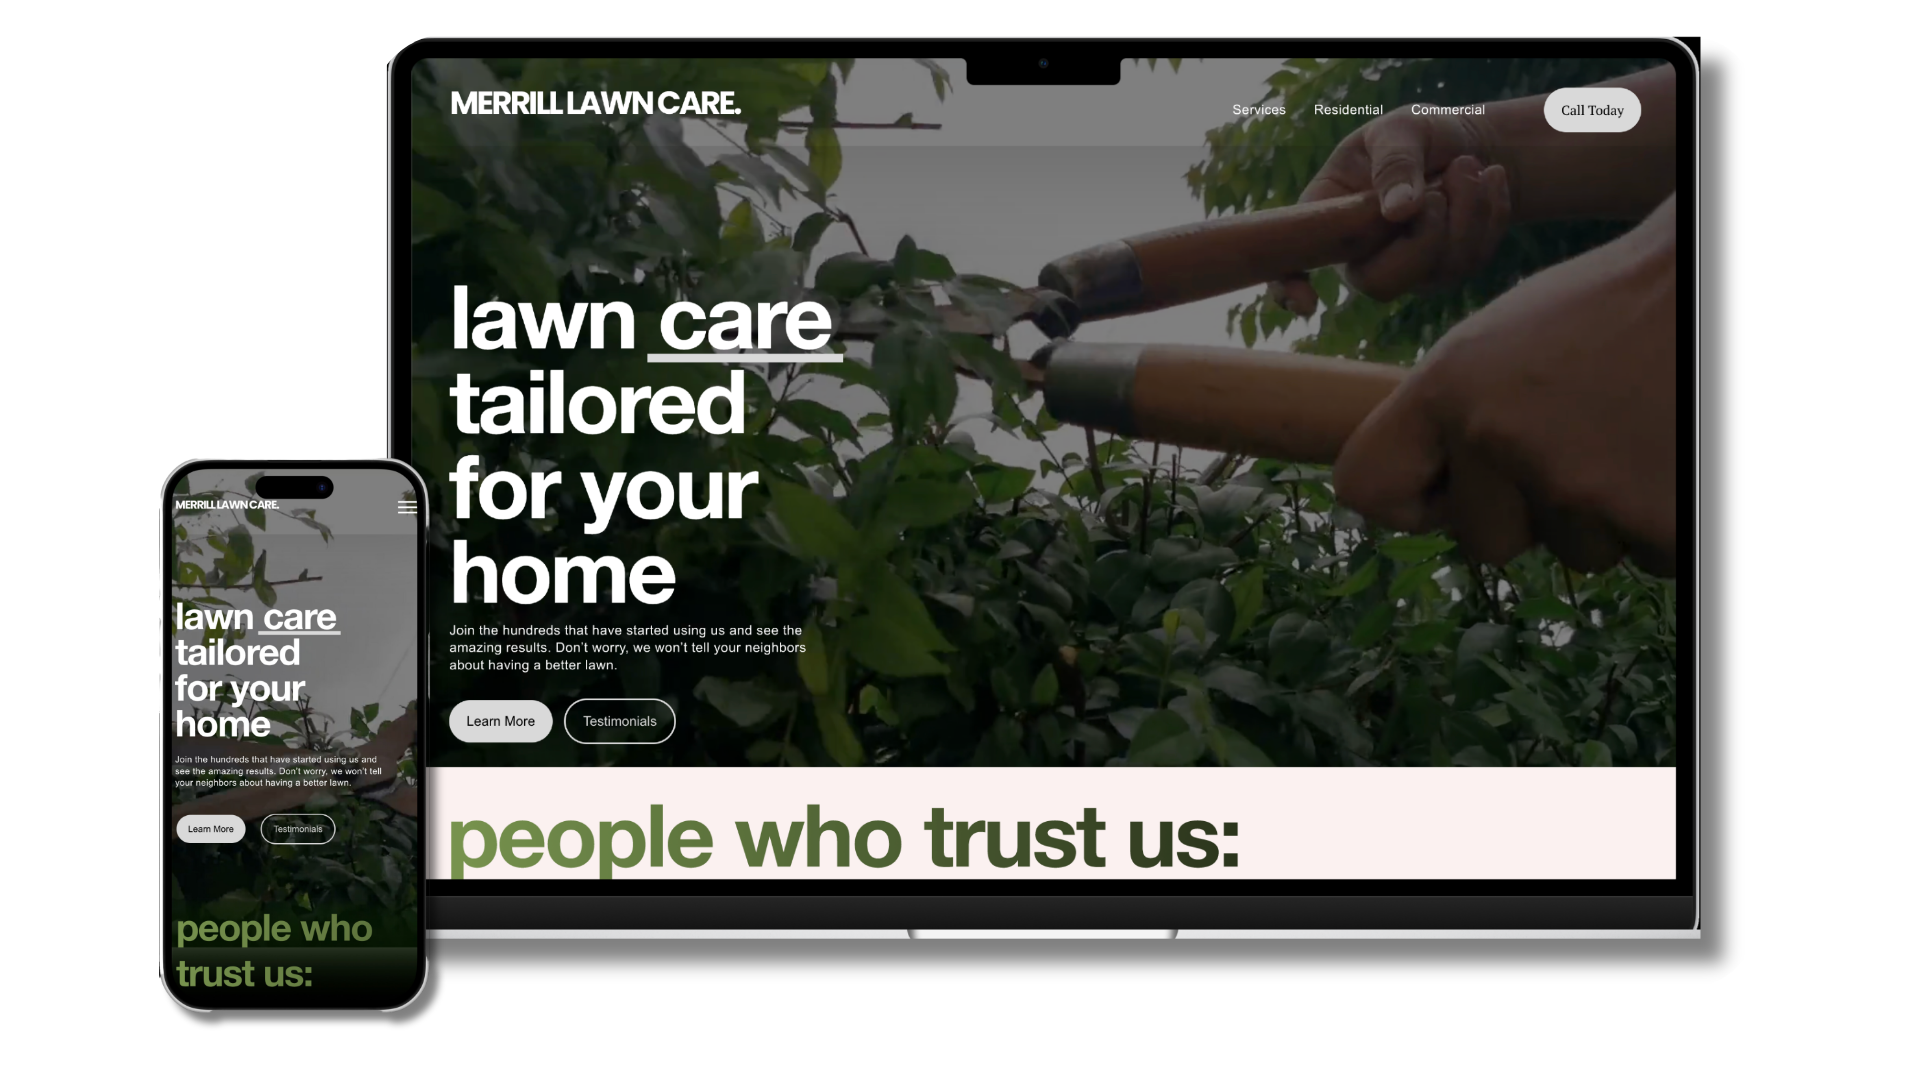
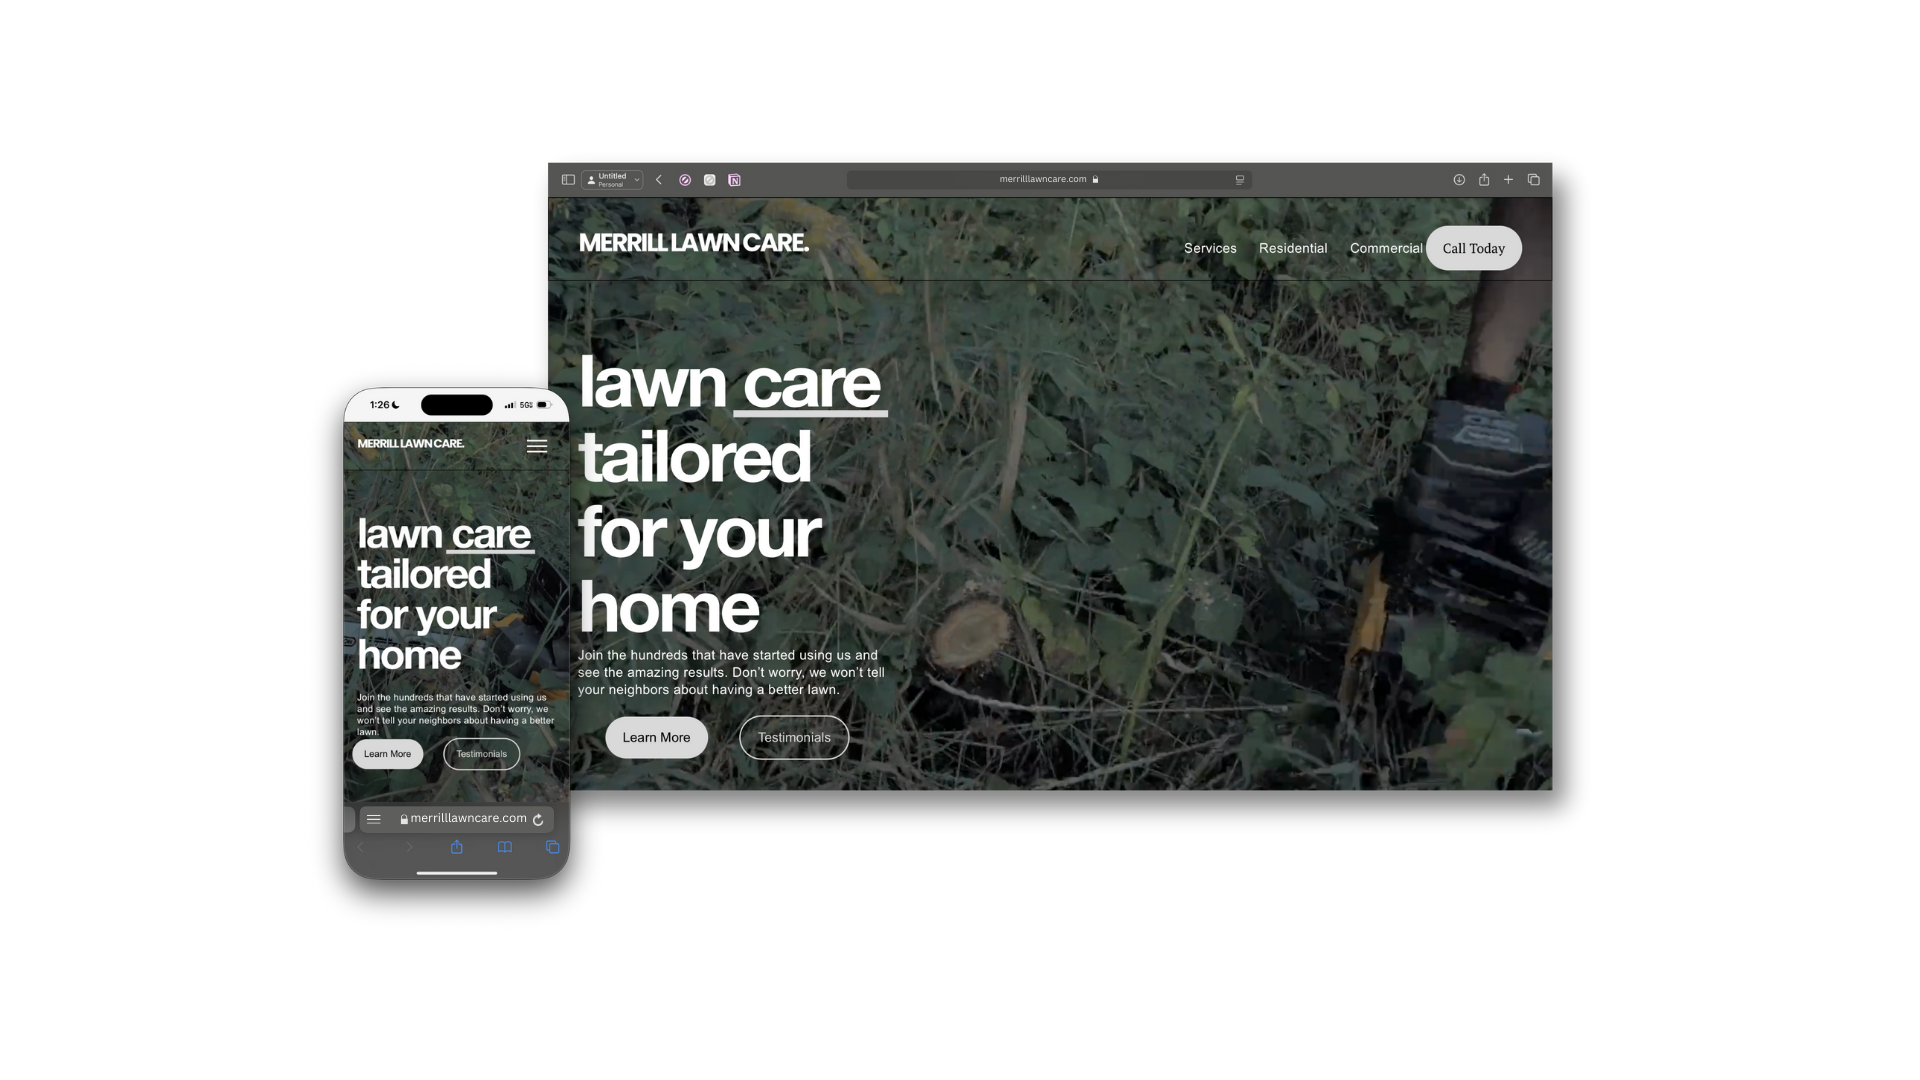
New hero image

diff --git a/src/app/(site)/privacy/page.tsx b/src/app/(site)/privacy/page.tsx
@@ -8,7 +8,7 @@ const PrivacyPage: React.FC = () => {
   return (
       <main className="container mx-auto px-4 py-16">
         <motion.h1 
-          className="text-5xl font-bold mb-8 text-center"
+          className="text-5xl font-bold mb-8 text-center text-white"
           initial={{ opacity: 0, y: -50 }}
           animate={{ opacity: 1, y: 0 }}
           transition={{ duration: 0.5 }}
@@ -25,35 +25,35 @@ const PrivacyPage: React.FC = () => {
             <CardHeader>
               <CardTitle className="text-2xl font-bold text-white">LawnLogic Privacy Policy</CardTitle>
             </CardHeader>
-            <CardContent className="prose prose-invert max-w-none">
+            <CardContent className="prose prose-invert max-w-none text-white">
               <p>
                 LawnLogic understands that your privacy is important to you. We are committed to protecting the privacy of your personally-identifiable information as you use this website. This Privacy Policy tells you how we protect and use information that we gather from you. By using this website, you consent to the terms described in the most recent version of this Privacy Policy. You should also read our Terms of Use to understand the general rules about your use of this website, and any additional terms that may apply when you access particular services or materials on certain areas of this website. "We," "our" means LawnLogic and its affiliates. "You," "your," "visitor," or "user" means the individual accessing this site.
               </p>
 
-              <h2 className="text-xl font-semibold mt-6 mb-4">PERSONAL AND NON-PERSONAL INFORMATION</h2>
+              <h2 className="text-xl font-semibold mt-6 mb-4 text-white">PERSONAL AND NON-PERSONAL INFORMATION</h2>
               <p>
                 Our Privacy Policy identifies how we treat your personal and non-personal information.
               </p>
 
-              <h2 className="text-xl font-semibold mt-6 mb-4">WHAT IS NON-PERSONAL INFORMATION AND HOW IS IT COLLECTED AND USED?</h2>
+              <h2 className="text-xl font-semibold mt-6 mb-4 text-white">WHAT IS NON-PERSONAL INFORMATION AND HOW IS IT COLLECTED AND USED?</h2>
               <p>
                 Non-personal information is information that cannot identify you. If you visit this website to read information, such as information about one of our services, we may collect certain non-personal information about you from your computer's web browser. Because non-personal information cannot identify you or be tied to you in any way, there are no restrictions on the ways that we can use or share non-personal information.
               </p>
 
-              <h2 className="text-xl font-semibold mt-6 mb-4">What is personal information and how is it collected?</h2>
+              <h2 className="text-xl font-semibold mt-6 mb-4 text-white">What is personal information and how is it collected?</h2>
               <p>
                 Personal information is information that identifies you as an individual, such as your name, mailing address, e-mail address, telephone number, and fax number. We may collect personal information from you in a variety of ways:
               </p>
-              <ul className="list-disc pl-6 mt-2">
+              <ul className="list-disc pl-6 mt-2 text-white">
                 <li>When you send us an application or other form</li>
                 <li>When you conduct a transaction with us, our affiliates, or others</li>
                 <li>When we collect information about you in support of a transaction, such as credit card information</li>
                 <li>In some places on this website you have the opportunity to send us personal information about yourself, to elect to receive particular information, to purchase access to one of our products or services, or to participate in an activity.</li>
               </ul>
 
-              <h2 className="text-xl font-semibold mt-6 mb-4">ARE COOKIES OR OTHER TECHNOLOGIES USED TO COLLECT PERSONAL INFORMATION?</h2>
+              <h2 className="text-xl font-semibold mt-6 mb-4 text-white">ARE COOKIES OR OTHER TECHNOLOGIES USED TO COLLECT PERSONAL INFORMATION?</h2>
               <p>
-ely assigned to you and can only be read by a web server in the domain that issued the cookie to you.
+                Cookies are uniquely assigned to you and can only be read by a web server in the domain that issued the cookie to you.
               </p>
               <p>
                 One of the primary purposes of cookies is to provide a convenience feature to save you time. The purpose of a cookie is to tell the Web server that you have returned to a specific page. For example, if you register with us, a cookie helps LawnLogic to recall your specific information on subsequent visits. This simplifies the process of recording your personal information, such as billing addresses, shipping addresses, and so on. When you return to the same LawnLogic website, the information you previously provided can be retrieved, so you can easily use the features that you customized.
@@ -77,8 +77,7 @@ ely assigned to you and can only be read by a web server in the domain that issu
           </Card>
         </motion.div>
       </main>
-
   )
-
 };
+
 export default PrivacyPage;

diff --git a/src/app/page.tsx b/src/app/page.tsx
@@ -50,22 +50,22 @@ export default function HomePage() {
                   <h2 className="text-4xl md:text-5xl font-bold tracking-tight">
                     Boosting Your Online Success
                   </h2>
-                  <p className="text-gray-700 font-light text-xl leading-relaxed max-w-[540px]">
+                  <p className="text-gray-700 font-semi-bold text-xl leading-relaxed max-w-[540px]">
                     At LawnLogic, we use a customer-centric approach to deliver maximum value to your customers. Transparency and usability are the core of our business.
                   </p>
-                  <ul className="space-y-6">
-                    {[
-                      'Converting Website Visitors into Booked Lawn Care Clients',
-                      'Smart Scheduling Systems that Work While You Sleep',
-                      'Dominating Local Search Results in Your Service Area',
-                      'AI-Powered Lead Capture - Never Miss an Opportunity',
-                    ].map((item, index) => (
-                      <li key={index} className="flex items-start space-x-4">
-                        <CheckIcon className="w-6 h-6 text-green-600 flex-shrink-0 mt-1" />
-                        <span className="text-gray-700 text-lg">{item}</span>
-                      </li>
-                    ))}
-                  </ul>
+<ul className="space-y-6">
+  {[
+    'Converting website visitors into booked lawn care clients',
+    'Smart scheduling systems that work while you sleep',
+    'Dominating local search results in your service area',
+    'AI-powered lead capture - never miss an opportunity',
+  ].map((item, index) => (
+    <li key={index} className="flex items-start space-x-4">
+      <CheckIcon className="w-6 h-6 text-green-600 flex-shrink-0 mt-1" />
+      <span className="text-gray-700 text-lg">{item}</span>
+    </li>
+  ))}
+</ul>
                   <div className="flex flex-row gap-4 pt-4">
                     <Link href="/testimonials">
                       <Button className="bg-transparent hover:bg-green-100 text-green-600 px-8 py-3 rounded-full text-lg font-semibold transition-colors border-2 border-green-600">

diff --git a/src/app/(site)/FAQ/page.tsx b/src/app/(site)/FAQ/page.tsx
@@ -80,7 +80,7 @@ const FAQItemComponent: React.FC<{ item: FAQItem; index: number; isOpen: boolean
     >
       <button
         onClick={onClick}
-        className="flex justify-between items-center w-full text-left p-4 bg-white/10 hover:bg-white/20 backdrop-blur-lg rounded-lg transition-colors duration-300 focus:outline-none focus:ring-2 focus:ring-green-500"
+        className="flex justify-between items-center w-full text-left p-4 bg-white/10 hover:bg-white/20 backdrop-blur-lg rounded-lg transition-colors duration-300 focus:outline-none focus:ring-2 focus:ring-green-500 text-white"
         aria-expanded={isOpen}
         aria-controls={`faq-answer-${index}`}
       >
@@ -91,7 +91,7 @@ const FAQItemComponent: React.FC<{ item: FAQItem; index: number; isOpen: boolean
         {isOpen && (
           <motion.div
             id={`faq-answer-${index}`}
-            className="mt-2 p-4 bg-white/5 backdrop-blur-lg rounded-lg overflow-hidden"
+            className="mt-2 p-4 bg-white/5 backdrop-blur-lg rounded-lg overflow-hidden text-white"
             initial="closed"
             animate="open"
             exit="closed"
@@ -116,7 +116,7 @@ export default function FAQPage() {
   return (
       <main className="container mx-auto px-4 py-16">
         <motion.h1 
-          className="text-5xl font-bold mb-8 text-center"
+          className="text-5xl font-bold mb-8 text-center text-white"
           initial={{ opacity: 0, y: -50 }}
           animate={{ opacity: 1, y: 0 }}
           transition={{ duration: 0.5 }}
@@ -125,7 +125,7 @@ export default function FAQPage() {
         </motion.h1>
         
         <motion.p 
-          className="text-xl text-center mb-12 max-w-2xl mx-auto"
+          className="text-xl text-center mb-12 max-w-2xl mx-auto text-white"
           initial={{ opacity: 0 }}
           animate={{ opacity: 1 }}
           transition={{ duration: 0.5, delay: 0.2 }}

diff --git a/src/app/components/HeroSection.tsx b/src/app/components/HeroSection.tsx
@@ -13,11 +13,11 @@ const HeroDeviceAnimation = dynamic(
 
 export default function HeroSection() {
   return (
-    <div className="w-full">
+    <div className="w-full overflow-hidden">
       <div className="container mx-auto px-6"> {/* Match header's container and padding */}
-        <div className="flex flex-col lg:flex-row items-start py-16 lg:py-24">
+        <div className="flex flex-col lg:flex-row items-start py-12 lg:py-20">
           {/* Text Content - Aligned with logo */}
-          <div className="w-full lg:w-1/2 ml-0 lg:ml-4"> {/* Match logo's ml-0 lg:ml-4 */}
+          <div className="w-full lg:w-1/2 ml-0 lg:ml-4 z-10"> {/* Match logo's ml-0 lg:ml-4 */}
             {/* Mobile & Tablet Heading */}
             <h1 className="lg:hidden text-[64px] leading-[1.2] sm:text-[64px] md:text-[72px] font-bold text-white tracking-tight">
               Where
@@ -51,9 +51,9 @@ export default function HeroSection() {
           </div>
 
           {/* Image Section - Modified for edge-to-edge on mobile */}
-          <div className="w-full lg:w-1/2 mt-16 lg:mt-0">
-            <div className="relative -mx-6 lg:mx-0"> {/* Negative margin to counteract container padding */}
-              <div className="w-full transform scale-100 sm:scale-105 md:scale-110 lg:scale-100 
+          <div className="w-full lg:w-1/2 mt-12 lg:mt-0 relative">
+            <div className="relative -mx-6 lg:mx-0 lg:-mr-[15vw]"> {/* Negative margin to counteract container padding */}
+              <div className="w-full transform scale-100 sm:scale-130 md:scale-110 lg:scale-100 
                           transition-transform duration-300">
                 <HeroDeviceAnimation />
               </div>

diff --git a/src/app/components/HeroDeviceAnimation.tsx b/src/app/components/HeroDeviceAnimation.tsx
@@ -1,5 +1,3 @@
-// src/app/components/HeroDeviceAnimation.tsx
-
 'use client';
 
 import React from 'react';
@@ -7,16 +5,19 @@ import Image from 'next/image';
 
 export default function HeroDeviceAnimation() {
   return (
-    <div className="relative w-full h-[50vh] md:h-[70vh]">
+    <div className="relative w-full h-[75vh] md:h-[75vh] lg:h-[80vh] -mt-20 sm:-mt-16 md:mt-0"> {/* Reduced negative margin slightly */}
       {/* Image Wrapper */}
-      <div className="absolute inset-0 md:w-[160%] md:h-full transform md:translate-x-[5%]">
+      <div className="absolute inset-0 w-full md:w-[170%] lg:w-[185%] h-full transform 
+                      translate-x-[-5%] translate-y-[-10%] md:translate-y-0 md:translate-x-[-12%] lg:translate-x-[-20%]">
+        {/* Adjusted translate-x for left movement and reduced translate-y to move down */}
         <Image 
-          src="/images/HeroImage.png" // Ensure this path is correct
+          src="/images/HeroImage.png"
           alt="Screenshot of our lawn care solutions website interface"
           fill
-          className="rounded-lg object-cover object-left md:object-center"
-          priority={false}
+          className="rounded-lg object-cover object-left md:object-center scale-125 md:scale-100"
+          priority={true}
           loading="eager"
+          sizes="(max-width: 768px) 100vw, (max-width: 1200px) 170vw, 185vw"
         />
       </div>
     </div>

diff --git a/src/app/(site)/testimonials/page.tsx b/src/app/(site)/testimonials/page.tsx
@@ -45,7 +45,7 @@ export default function WSUTestimonial() {
                 className="w-24 h-auto mr-4"
               />
               <div>
-                <h1 className="text-4xl md:text-5xl font-bold mb-2">Wichita State University</h1>
+                <h1 className="text-4xl text-white md:text-5xl font-bold mb-2">Wichita State University</h1>
                 <p className="text-xl text-gray-300 mb-4">Elevating Academic Excellence through Digital Engagement</p>
               </div>
             </div>
@@ -62,7 +62,7 @@ export default function WSUTestimonial() {
 
           {/* Content Section */}
           <section className="mt-8">
-            <h2 className="text-3xl md:text-4xl font-bold mb-4">Our Growth with Them</h2>
+            <h2 className="text-3xl md:text-4xl text-white font-bold mb-4">Our Growth with Them</h2>
             <p className="text-lg text-gray-300 leading-relaxed mb-4">
               Beginning in the Summer of &#39;24, I helped curate and plan a social media strategy to increase the number of
               followers on their accounts, while the goal was to increase the graduate applicant pool.

diff --git a/src/app/(site)/pricing/page.tsx b/src/app/(site)/pricing/page.tsx
@@ -11,17 +11,18 @@ const PricingPage: React.FC = () => {
       <main className="container mx-auto px-4 py-16">
         {/* Page Title */}
         <motion.h1 
-          className="text-5xl font-bold mb-8 text-center"
+          className="text-5xl font-bold mb-8 text-center text-white" // Added "text-white" class
           initial={{ opacity: 0, y: -50 }}
           animate={{ opacity: 1, y: 0 }}
           transition={{ duration: 0.5 }}
+          
         >
           Transparent Pricing
         </motion.h1>
         
         {/* Page Description */}
         <motion.p 
-          className="text-xl text-center mb-12 max-w-2xl mx-auto"
+          className="text-xl text-center mb-12 max-w-2xl mx-auto text-white" // Added "text-white" class
           initial={{ opacity: 0 }}
           animate={{ opacity: 1 }}
           transition={{ duration: 0.5, delay: 0.2 }}
